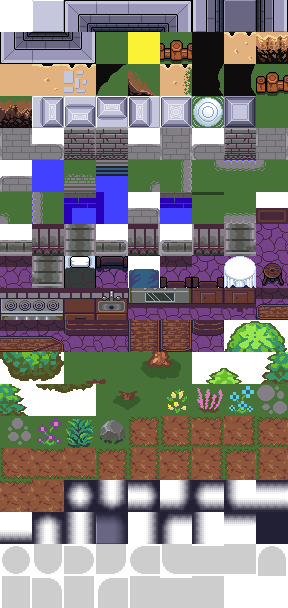
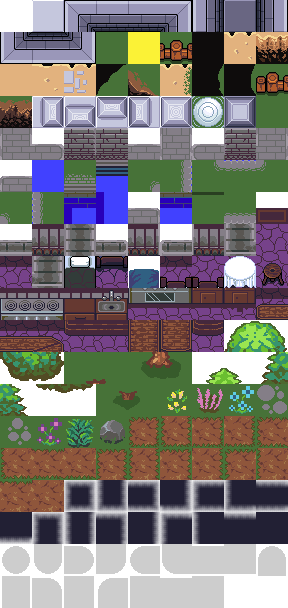
Initial fog of war enhancement

Changed region(s): [[0.0, 0.7812, 1.0, 0.9062]]

diff --git a/PitHero/Util/TileBitmask.cs b/PitHero/Util/TileBitmask.cs
@@ -1,0 +1,20 @@
+using System;
+
+namespace PitHero.Util
+{
+    public static class TileBitmask
+    {
+        public static int Calculate(int x, int y, Func<int, int, bool> hasTileAt)
+        {
+            int v = 0;
+            if (hasTileAt(x, y - 1)) v += 1;  // North
+            if (hasTileAt(x - 1, y)) v += 2;  // West
+            if (hasTileAt(x + 1, y)) v += 4;  // East
+            if (hasTileAt(x, y + 1)) v += 8;  // South
+            return v;
+        }
+
+        public static int GetTileIndex(int x, int y, int zerothTileIndex, Func<int, int, bool> hasTileAt)
+            => zerothTileIndex + Calculate(x, y, hasTileAt);
+    }
+}

diff --git a/PitHero/Util/TiledMapService.cs b/PitHero/Util/TiledMapService.cs
@@ -2,8 +2,10 @@
 using Nez;
 using Nez.AI.Pathfinding;
 using Nez.Tiled;
+using PitHero;
 using PitHero.AI.Interfaces;
 using PitHero.ECS.Components;
+using System;
 
 namespace PitHero.Util
 {
@@ -90,7 +92,21 @@ namespace PitHero.Util
 
             RemoveTile("FogOfWar", tileX, tileY);
             Debug.Log($"FogOfWar tile removed at {tileX}, {tileY}");
+            UpdateFogBitmasks(tileX, tileY);
             return true;
+        }
+
+        private void UpdateFogBitmasks(int clearedX, int clearedY)
+        {
+            for (int dx = -1; dx <= 1; dx++)
+                for (int dy = -1; dy <= 1; dy++)
+                {
+                    if (dx == 0 && dy == 0) continue;
+                    int nx = clearedX + dx, ny = clearedY + dy;
+                    if (!IsFogOfWarTile(nx, ny)) continue;
+                    int idx = TileBitmask.GetTileIndex(nx, ny, GameConfig.FogOfWarZeroTileIndex, IsFogOfWarTile);
+                    SetTile("FogOfWar", nx, ny, idx);
+                }
         }
 
         /// <summary>

diff --git a/PitHero/VirtualGame/VirtualTiledMapService.cs b/PitHero/VirtualGame/VirtualTiledMapService.cs
@@ -1,6 +1,7 @@
 using Microsoft.Xna.Framework;
 using PitHero.AI.Interfaces;
 using PitHero.ECS.Components;
+using PitHero.Util;
 using System;
 
 namespace PitHero.VirtualGame
@@ -51,6 +52,7 @@ namespace PitHero.VirtualGame
                     fogLayer.RemoveTile(tileX, tileY);
                     _worldState.ClearFogOfWar(new Point(tileX, tileY), 0); // Single tile clear
                     Console.WriteLine($"[VirtualTiledMapService] Cleared FogOfWar tile at ({tileX},{tileY})");
+                    UpdateFogBitmasks(tileX, tileY);
                     return true;
                 }
             }
@@ -112,6 +114,19 @@ namespace PitHero.VirtualGame
                 return false;
 
             return fogLayer.GetTile(tileX, tileY) != null;
+        }
+
+        private void UpdateFogBitmasks(int clearedX, int clearedY)
+        {
+            for (int dx = -1; dx <= 1; dx++)
+                for (int dy = -1; dy <= 1; dy++)
+                {
+                    if (dx == 0 && dy == 0) continue;
+                    int nx = clearedX + dx, ny = clearedY + dy;
+                    if (!IsFogOfWarTile(nx, ny)) continue;
+                    int idx = TileBitmask.GetTileIndex(nx, ny, GameConfig.FogOfWarZeroTileIndex, IsFogOfWarTile);
+                    SetTile("FogOfWar", nx, ny, idx);
+                }
         }
 
         /// <summary>

diff --git a/PitHero/PitWidthManager.cs b/PitHero/PitWidthManager.cs
@@ -547,7 +547,7 @@ namespace PitHero
             {
                 for (int y = 3; y <= 9; y++) // y=3 to y=9 is the explorable pit interior
                 {
-                    _tiledMapService.SetTile("FogOfWar", x, y, _fogOfWarIndex);
+                    _tiledMapService.SetTile("FogOfWar", x, y, GameConfig.FogOfWarZeroTileIndex + 15);
                 }
             }
 
@@ -594,7 +594,7 @@ namespace PitHero
 
                 if (shouldSetFogOfWar && _fogOfWarIndex != 0)
                 {
-                    tiledMapService.SetTile("FogOfWar", x, y, _fogOfWarIndex);
+                    tiledMapService.SetTile("FogOfWar", x, y, GameConfig.FogOfWarZeroTileIndex + 15);
                 }
             }
         }

diff --git a/PitHero/VirtualGame/VirtualPitWidthManager.cs b/PitHero/VirtualGame/VirtualPitWidthManager.cs
@@ -237,7 +237,7 @@ namespace PitHero.VirtualGame
 
                 if (shouldSetFogOfWar && _fogOfWarIndex != 0)
                 {
-                    _tiledMapService.SetTile("FogOfWar", x, y, _fogOfWarIndex);
+                    _tiledMapService.SetTile("FogOfWar", x, y, GameConfig.FogOfWarZeroTileIndex + 15);
                 }
             }
         }
@@ -263,7 +263,7 @@ namespace PitHero.VirtualGame
             {
                 for (int y = 3; y <= 9; y++)
                 {
-                    _tiledMapService.SetTile("FogOfWar", x, y, _fogOfWarIndex);
+                    _tiledMapService.SetTile("FogOfWar", x, y, GameConfig.FogOfWarZeroTileIndex + 15);
                 }
             }
 

diff --git a/PitHero/GameConfig.cs b/PitHero/GameConfig.cs
@@ -97,7 +97,8 @@ namespace PitHero
         public const float HeroFogCooldownDuration = 1f; // Duration in seconds for fog cooldown after clearing fog
 
         // Hero uncover radius configuration
-        public const int DefaultHeroUncoverRadius = 1; // Default radius for hero fog clearing        
+        public const int DefaultHeroUncoverRadius = 1; // Default radius for hero fog clearing
+        public const int FogOfWarZeroTileIndex = 138; // Base GID for fog; GIDs 137-152 cover the 16 bitmask variants
 
         // Building Configuration
         public const int TownBuildingWidth = 48;